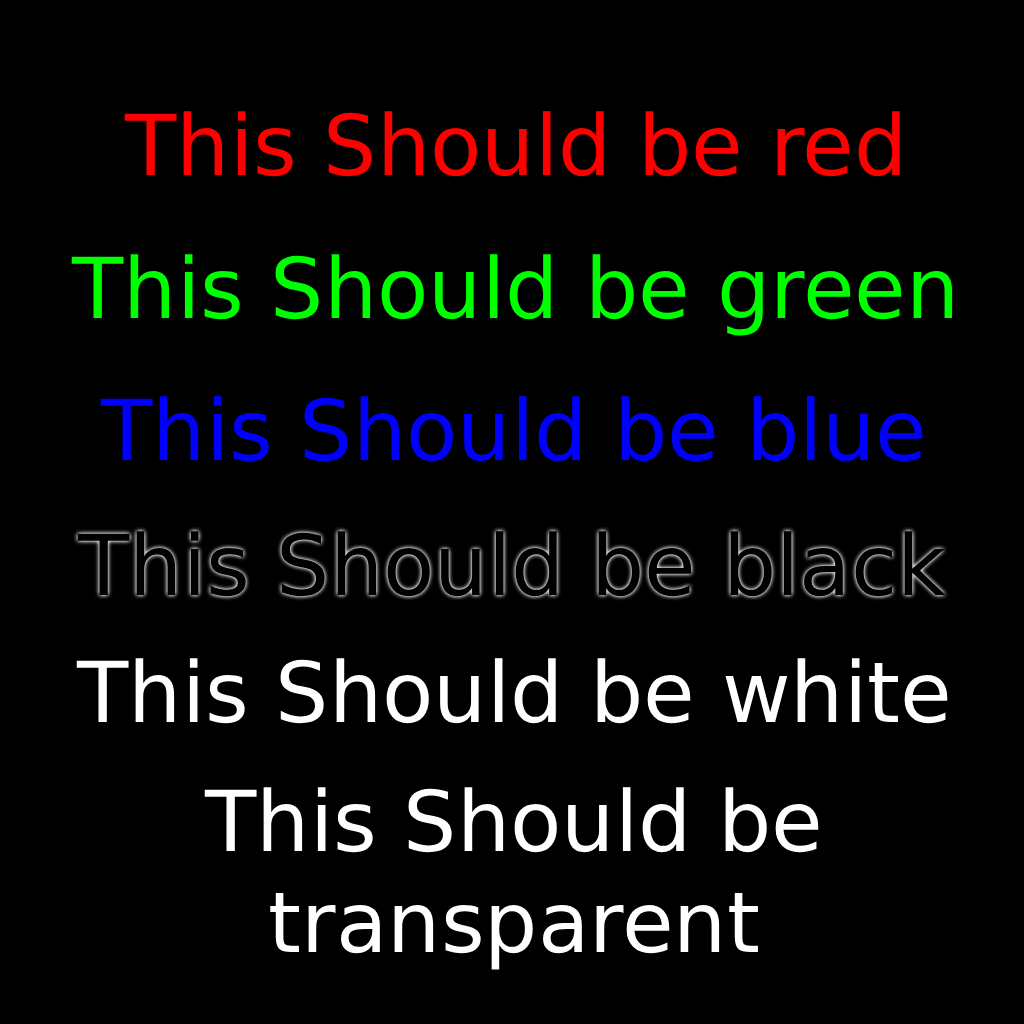
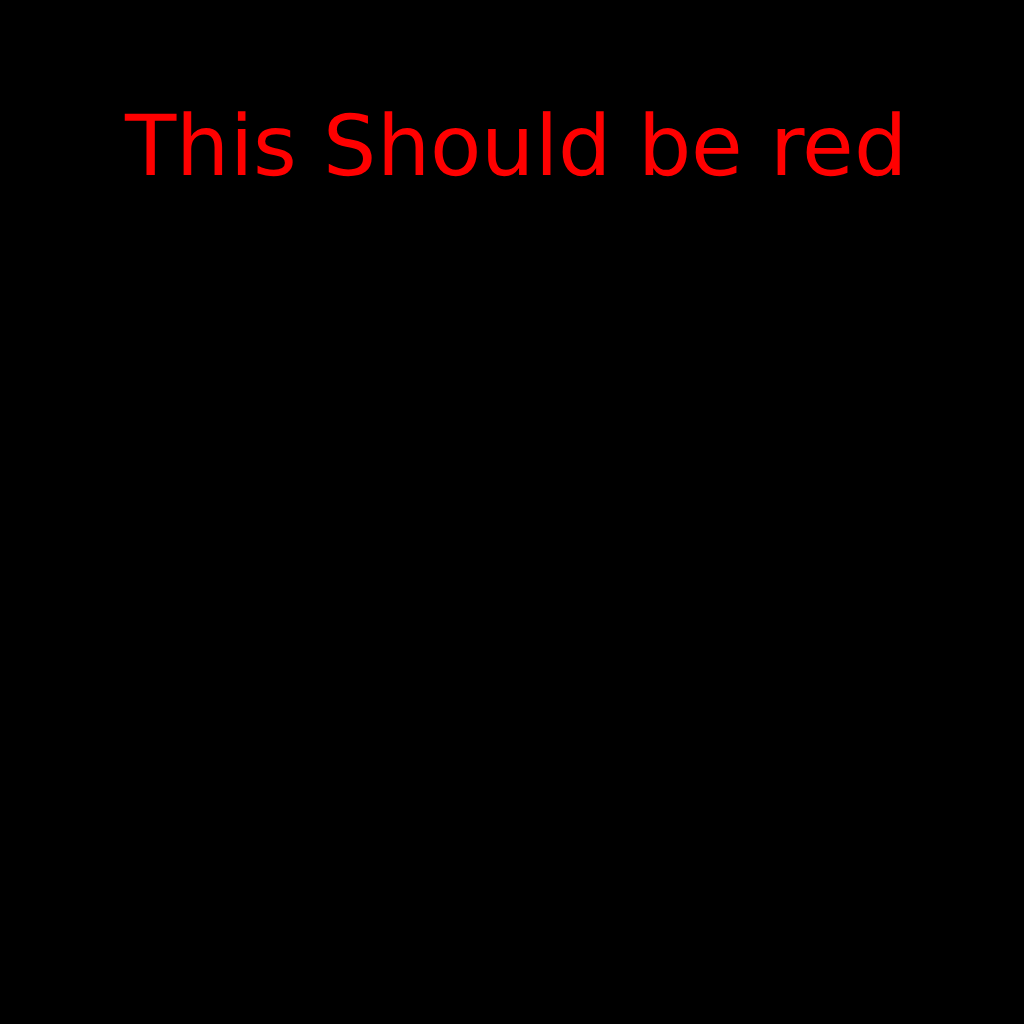
testing channel splitting

diff --git a/Channel_Packing_Tool/tool.py b/Channel_Packing_Tool/tool.py
@@ -1,5 +1,5 @@
 print ("tool opened")
-from PIL import Image
+#from PIL import Image
 import PIL
 import numpy as np
 import matplotlib.pyplot as plt
@@ -13,8 +13,16 @@ imageVarName.Image.thumbnail((256,256)) #resizes an image -> PIL function
 
 
 #default paths: 
-#Output Path ./Channel_Packing_Tool/default_output/FILENAME.png
-#Input Path
+    #Output Path ./Channel_Packing_Tool/default_output/FILENAME.png
+    #Input Path ./Channel_Packing_Tool/default_assets/FILENAME.png
+
+#default asset names:
+    Red=Occlusion.png
+    Green=Roughness.png
+    Blue=Metalic.png
+    Alpha=Alpha_Mask.png
+
+    Packed=ORMA
 
 '''
 ##-----------------------testing zone-----------------------
@@ -26,6 +34,7 @@ if DEBUG:
 def DBGprint(text):
     if DEBUG:
         print(text)
+
 #import os 
 #dir_path = os.path.dirname(os.path.realpath(__file__))
 
@@ -37,14 +46,17 @@ def DBGprint(text):
 
 #Image._show(RGBA)
 
+#plt.gray()#grayscale
+
 ##-----------------------Open Images-----------------------
 
 
 def openImg(text,fileName):
-    print(text)
+    DBGprint(text=text)
     extensions = [".png","jpg"] #add filetypes to filedialog: filetypes= need to figure this shit out
-    defaultPath = str("./Channel_Packing_Tool/default_output/"+fileName)
-    filePath = filedialog.askopenfilename(title=text,defaultextension=".png",initialfile=fileName)#opens a window to grab a file
+    defaultPath = str("./Channel_Packing_Tool/default_assets/"+fileName)
+    filePath = filedialog.askopenfilename(title=text,defaultextension=".png",initialfile=fileName) or defaultPath #opens a window to grab a file. if window is closed sets to default path
+
     print ("so you have chosen:" ,filePath)
     file = PIL.Image.open(filePath)#opens the file from the path
     return file
@@ -72,6 +84,50 @@ PIL.Image._show(RGBA)
 #print ("hopefully that printed RGBA")
 
 ##-----------------------Seperate Channels-----------------------
+
+def RGBAtoSingleChannel(RGBA):
+    ImgArray = np.asarray(RGBA)#converts immage to array format: ImgArray[red,green,blue,alpha]
+    DBGprint(text=ImgArray)
+    pass
+
+
+
+def PackToRGBA(red,green,blue,alpha,resolution):# return RGBA
+    #setup resolution as resolution = [1024,1024]
+    #                                   ^     ^
+    #                                   |     |
+    #                                 Width,height
+    
+    '''RArray = np.asarray(red)
+    GArray = np.asarray(green)
+    BArray = np.asarray(blue)
+    AArray = np.asarray(alpha)'''
+
+    RArray = np.asarray(red)
+    GArray = np.asarray(green)
+    BArray = np.asarray(blue)
+    AArray = np.asarray(alpha)
+
+    PackedArray = np.array([RArray[0],GArray[0],BArray[0],AArray[0]])
+
+    DBGprint(PackedArray)
+
+    #       Height and width are switched in numpy for some reason
+    #                     Height       Width
+    #                       V            V
+    data = np.zeros((resolution[1], resolution[0], 3), dtype=np.uint8)
+
+    #PackedArray = np.zeros((5,5))
+    DBGprint(PackedArray)
+
+    RGBA = PIL.Image.fromarray(PackedArray)
+    DBGprint(RGBA)
+    PIL.Image._show(RGBA)#for debug opens the image in external
+
+    #RGBA = Image.fromarray(data, 'RGB')
+    return RGBA
+
+
 
 
 
@@ -112,6 +168,21 @@ def savImg(export,text,defaultName):
 
 ##-----------------------GUI-----------------------
 
+#---->button class:
+#location
+#funcion
+#colour/texture
+#animation
+    #---->slider subclass
+    #size
+    #values
+    #textures
+
+#---->window class:
+#size
+#buttons (childeren)
+#colour/texture
+
 
 
 ##-----------------------Logic Maths etc-----------------------
@@ -124,26 +195,29 @@ while running:
     print ("here are the details for the Red channel:", Rchan)
     #PIL.Image._show(Rchan)#for debug opens the image in external
     
-    #Gchan = openImg(text="open Green channel texture, usually Roughness",fileName="Roughness.png")
-    #print ("here are the details for the Green channel:", Gchan)
+    Gchan = openImg(text="open Green channel texture, usually Roughness",fileName="Roughness.png")
+    print ("here are the details for the Green channel:", Gchan)
     #PIL.Image._show(Gchan)
 
-    #Bchan = openImg(text="open Blue channel texture, usually Metalic",fileName="Metalic.png")
-    #print ("here are the details for the Blue channel:", Bchan)
+    Bchan = openImg(text="open Blue channel texture, usually Metalic",fileName="Metalic.png")
+    print ("here are the details for the Blue channel:", Bchan)
     #PIL.Image._show(Bchan)
 
-    #Achan = openImg(text="open Alpha channel texture, usually reserved for Mask",fileName="Alpha_Mask.png")
-    #print ("here are the details for the Alpha channel:", Achan)
+    Achan = openImg(text="open Alpha channel texture, usually reserved for Mask",fileName="Alpha_Mask.png")
+    print ("here are the details for the Alpha channel:", Achan)
     #PIL.Image._show(Achan)
+
+    RGBA = PackToRGBA(red=Rchan,green=Gchan,blue=Bchan,alpha=Achan,resolution=[1024,1024])
+    input("press enter to continue")
     
 
-    savImg(export=Rchan,text="save output file as",defaultName="ORMA.png")#change Rchan to RGBA when files are packed
+    savImg(export=RGBA,text="save output file as",defaultName="ORMA.png")#change Rchan to RGBA when files are packed
 
     #Export packed file
     #filePath = filedialog.asksaveasfile()
     #Rchan.save(fp=str(filePath), format="png")
 
     q = input ("press enter to run again or type quit to end")
-    if q == ("quit"):
+    if q == ("quit") or q == ("q"):
         running = False
     

diff --git a/Channel_Packing_Tool/testing.py b/Channel_Packing_Tool/testing.py
@@ -1,0 +1,93 @@
+import PIL
+from PIL import Image
+import numpy as np
+
+
+
+
+def PackToRGBA():# return RGBA
+    #setup resolution as resolution = [1024,1024]
+    #                                   ^     ^
+    #                                   |     |
+    #                                 Width,height
+    
+    red = [250,250,128]
+    green = [128,250,10]
+    blue = [0,0,0]
+    alpha = [128,128,128]
+
+
+
+    '''RArray = np.asarray(red)
+    GArray = np.asarray(green)
+    BArray = np.asarray(blue)
+    AArray = np.asarray(alpha)'''
+
+    RArray = np.asarray(red)
+    GArray = np.asarray(green)
+    BArray = np.asarray(blue)
+    AArray = np.asarray(alpha)
+
+    PackedArray = np.array([red[0],green[0],blue[0],alpha[0]])
+
+    print(PackedArray)
+
+    #       Height and width are switched in numpy for some reason
+    #                     Height       Width
+    #                       V            V
+    #data = np.zeros((resolution[1], resolution[0], 3), dtype=np.uint8)
+
+    #PackedArray = np.zeros((5,5))
+    print(PackedArray)
+    '''
+    RGBA = Image.fromarray(PackedArray)
+    print(RGBA)
+    Image._show(RGBA)#for debug opens the image in external
+    '''
+    #RGBA = Image.fromarray(data, 'RGB')
+    #return RGBA
+
+#PackToRGBA()
+
+img  = PIL.Image.open("./Channel_Packing_Tool/default_assets/ORMA.png")
+#a = np.asarray(img)
+array = np.asarray(img)
+
+red = array[:, :, 0]
+green = array[:, :, 1]
+blue = array[:, :, 2]
+alpha = array[:, :, 3]
+
+'''red = np.asarray(img)
+green = np.asarray(img)
+blue = np.asarray(img)
+alpha = np.asarray(img)
+'''
+
+#a = np.array([red[0],green[1],blue[2],alpha[3]])
+
+#nicked code
+img = Image.open("test_image.png")
+M = np.asarray(img)
+
+red_channel = M[:, :, 0]
+green_channel = M[:, :, 1]
+blue_channel = M[:, :, 2]
+#nicked code
+
+
+#R = np.asarray(img)
+a = np.zeros((1024,1024))
+a[0:1023, 0:1023] = red[0:1023,0:1023,0]+red[0:1023,0:1023,1]+red[0:1023,0:1023,2]
+
+a=red
+
+imgRepack = Image.fromarray(a)
+
+print("the image in array form is",a)
+Image._show(imgRepack)
+
+'''
+a = np.zeros((5, 5))
+im = Image.fromarray(a)
+print(im)'''
